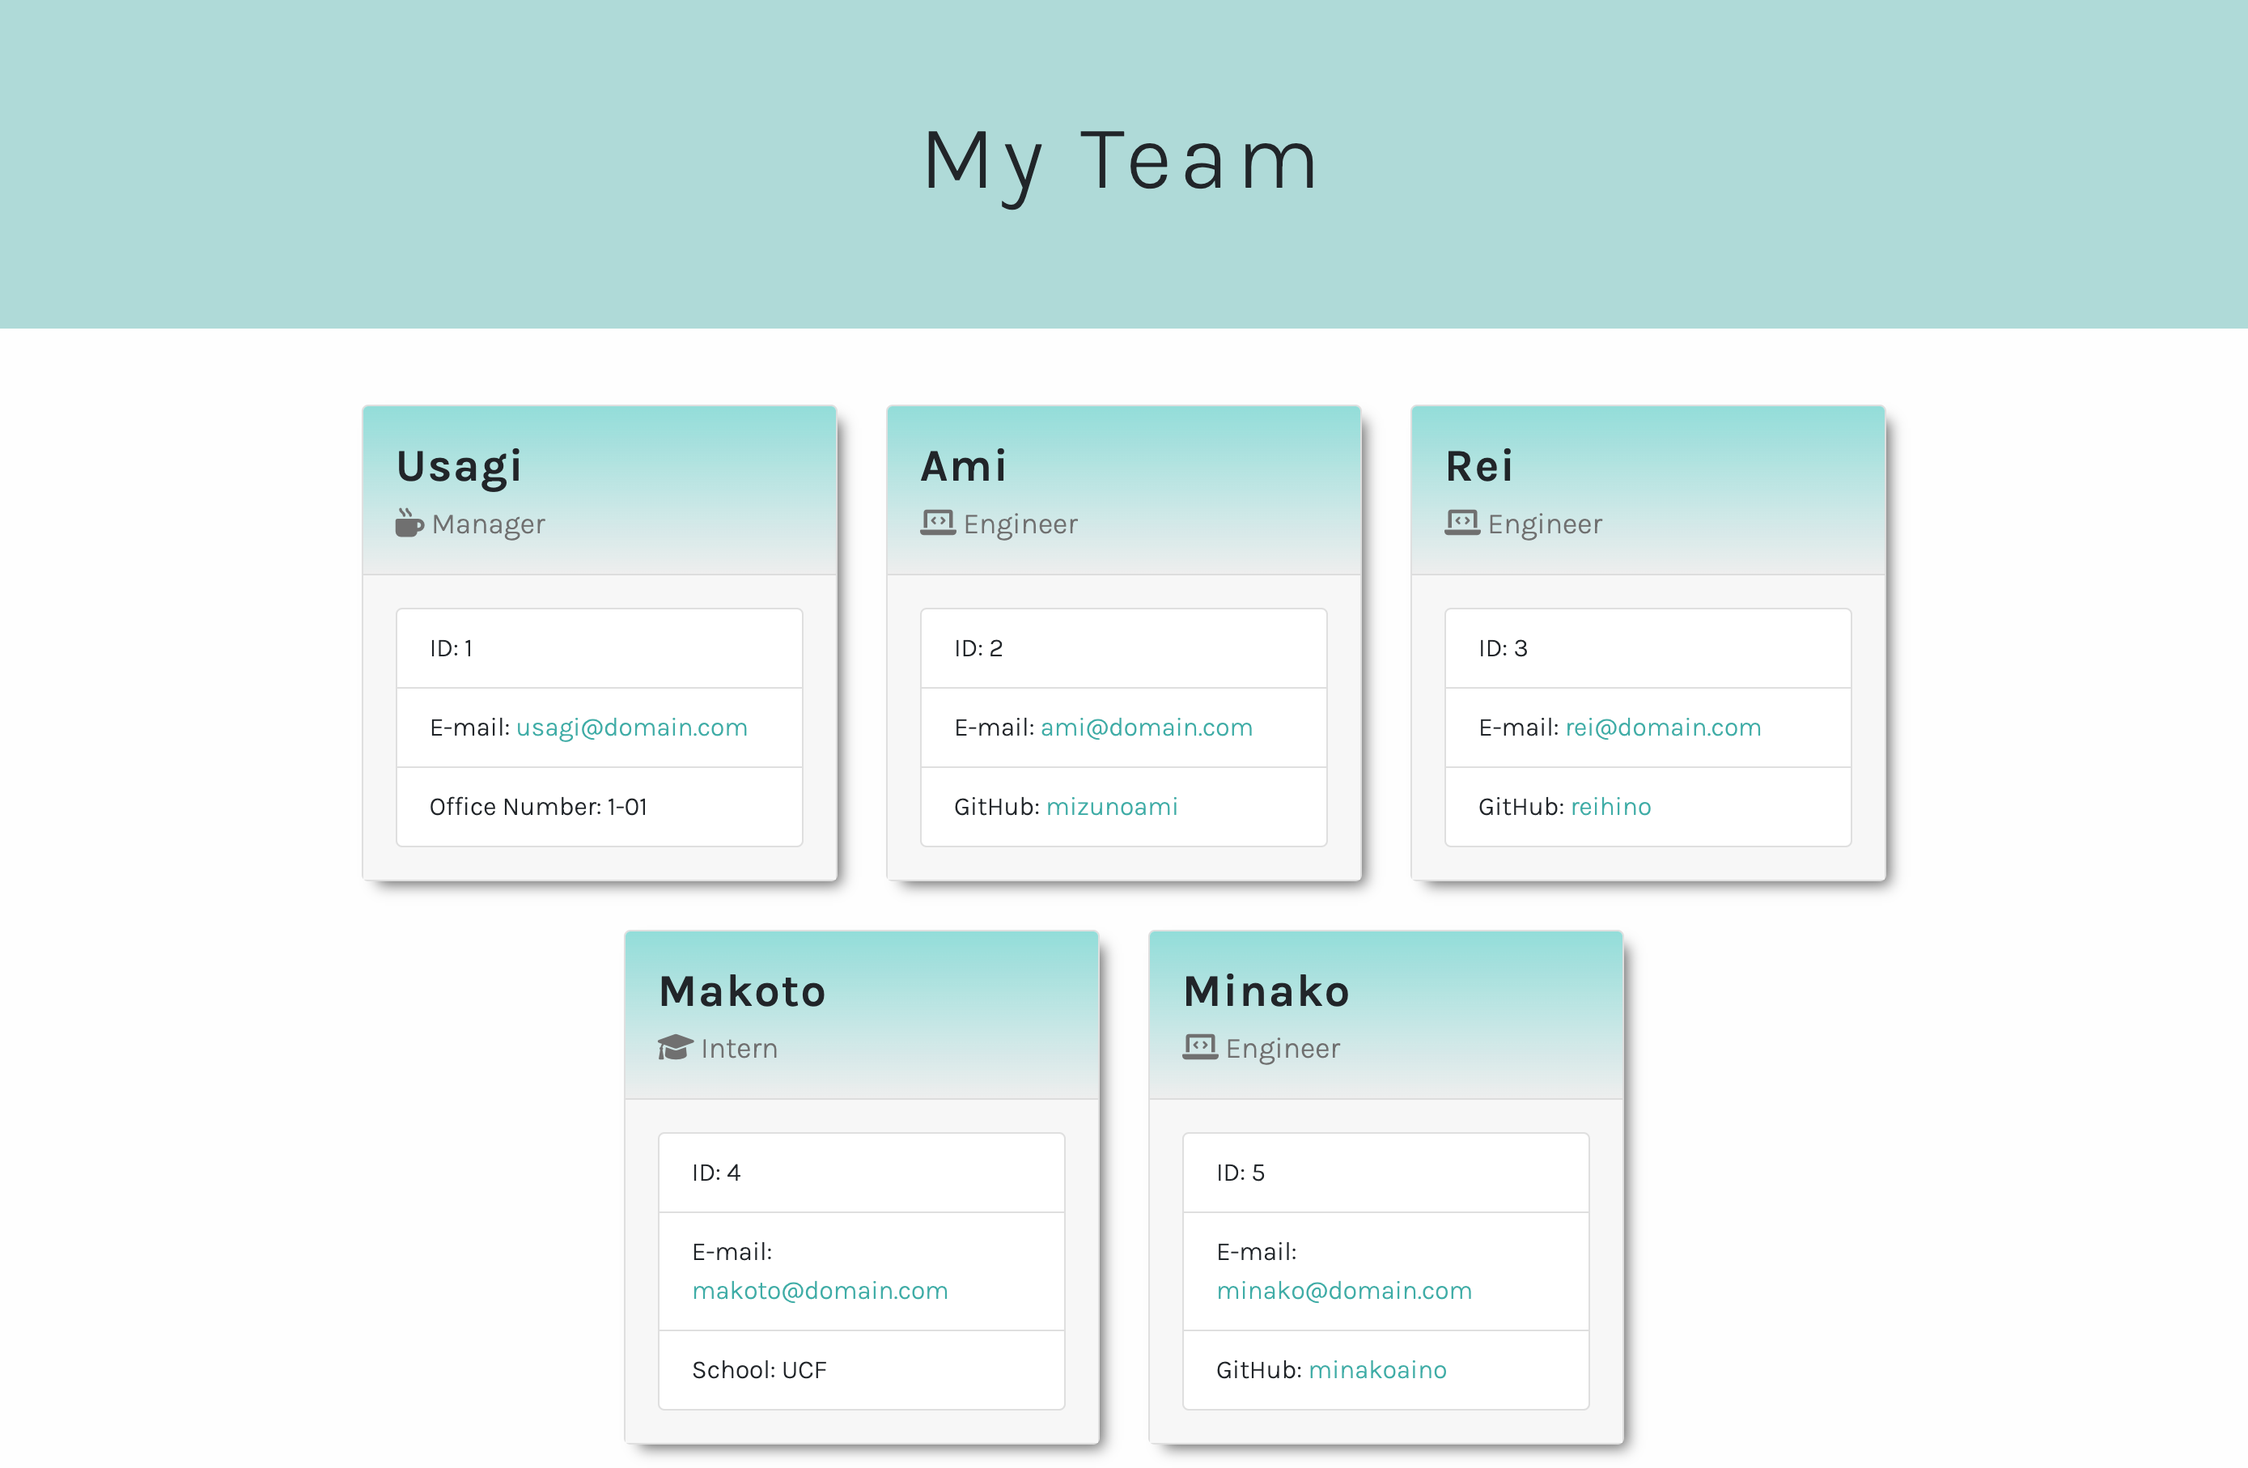
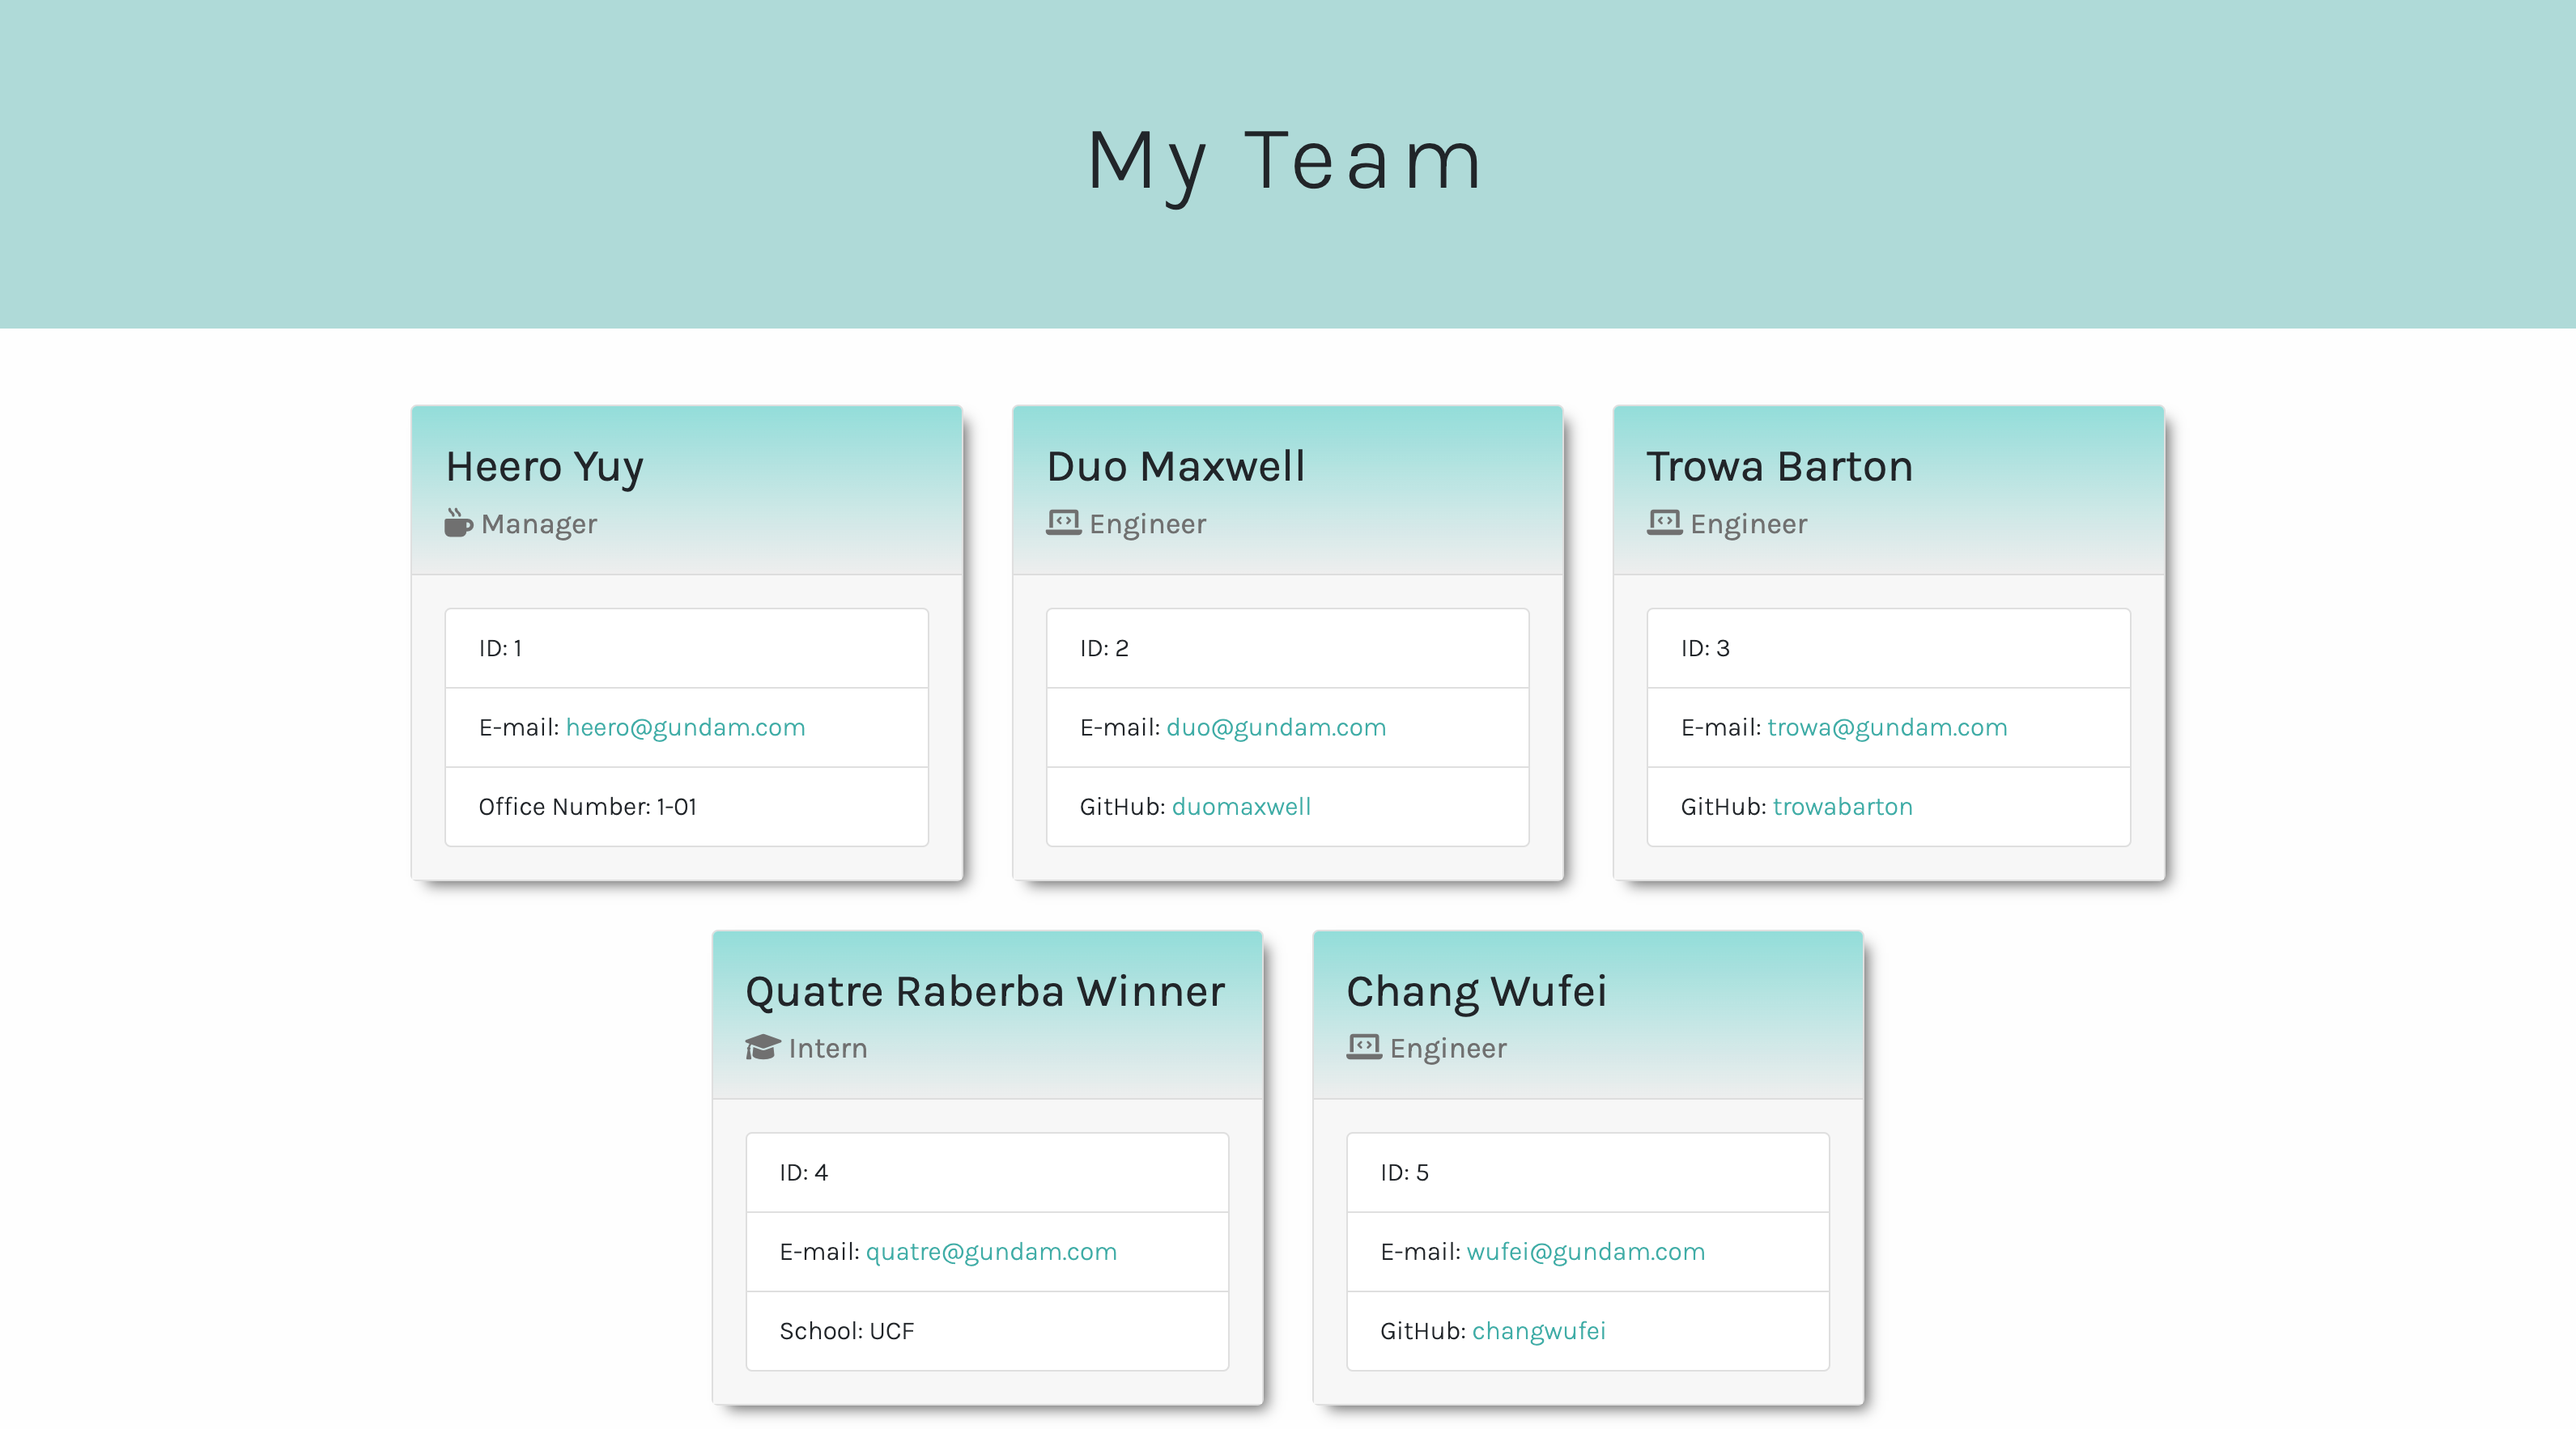
some edits to html output & README.md

diff --git a/dist/index.html b/dist/index.html
@@ -8,7 +8,7 @@
     <script src="https://kit.fontawesome.com/c5a64ca061.js" crossorigin="anonymous"></script>
     <link rel="preconnect" href="https://fonts.googleapis.com">
     <link rel="preconnect" href="https://fonts.gstatic.com" crossorigin>
-    <link href="https://fonts.googleapis.com/css2?family=Karla:wght@200;300;600&display=swap" rel="stylesheet">
+    <link href="https://fonts.googleapis.com/css2?family=Karla:wght@200;300;400&display=swap" rel="stylesheet">
     <link rel="stylesheet" href="style.css" />
     <title>Team Profile</title>
 </head>
@@ -28,13 +28,13 @@
             <div class="col-md-4">
                 <div class="card">
                     <div class="card-header">
-                        <h2>Usagi</h2>
+                        <h2>Heero Yuy</h2>
                         <h5 class="card-title"><i class="fa-solid fa-mug-hot"></i> Manager</h5>
                     </div>
                     <div class="card-body">
                         <ul class="list-group">
                             <li class="list-group-item">ID: 1</li>
-                            <li class="list-group-item">E-mail: <a href="mailto:usagi@domain.com">usagi@domain.com</a></li>
+                            <li class="list-group-item">E-mail: <a href="mailto:heero@gundam.com">heero@gundam.com</a></li>
                             <li class="list-group-item">Office Number: 1-01</li>
                         </ul>
                     </div>
@@ -44,14 +44,14 @@
             <div class="col-md-4">
                 <div class="card">
                     <div class="card-header">
-                        <h2>Ami</h2>
+                        <h2>Duo Maxwell</h2>
                         <h5 class="card-title"><i class="fa-solid fa-laptop-code"></i> Engineer</h5>
                     </div>
                     <div class="card-body">
                         <ul class="list-group">
                             <li class="list-group-item">ID: 2</li>
-                            <li class="list-group-item">E-mail: <a href="mailto:ami@domain.com">ami@domain.com</a></li>
-                            <li class="list-group-item">GitHub: <a href="https://github.com/mizunoami" target="_blank">mizunoami</a></li>
+                            <li class="list-group-item">E-mail: <a href="mailto:duo@gundam.com">duo@gundam.com</a></li>
+                            <li class="list-group-item">GitHub: <a href="https://github.com/duomaxwell" target="_blank">duomaxwell</a></li>
                         </ul>
                     </div>
                 </div>
@@ -60,14 +60,14 @@
             <div class="col-md-4">
                 <div class="card">
                     <div class="card-header">
-                        <h2>Rei</h2>
+                        <h2>Trowa Barton</h2>
                         <h5 class="card-title"><i class="fa-solid fa-laptop-code"></i> Engineer</h5>
                     </div>
                     <div class="card-body">
                         <ul class="list-group">
                             <li class="list-group-item">ID: 3</li>
-                            <li class="list-group-item">E-mail: <a href="mailto:rei@domain.com">rei@domain.com</a></li>
-                            <li class="list-group-item">GitHub: <a href="https://github.com/reihino" target="_blank">reihino</a></li>
+                            <li class="list-group-item">E-mail: <a href="mailto:trowa@gundam.com">trowa@gundam.com</a></li>
+                            <li class="list-group-item">GitHub: <a href="https://github.com/trowabarton" target="_blank">trowabarton</a></li>
                         </ul>
                     </div>
                 </div>
@@ -76,13 +76,13 @@
             <div class="col-md-4">
                 <div class="card">
                     <div class="card-header">
-                        <h2>Makoto</h2>
+                        <h2>Quatre Raberba Winner</h2>
                         <h5 class="card-title"><i class="fa-solid fa-graduation-cap"></i> Intern</h5>
                     </div>
                     <div class="card-body">
                         <ul class="list-group">
                             <li class="list-group-item">ID: 4</li>
-                            <li class="list-group-item">E-mail: <a href="mailto:makoto@domain.com">makoto@domain.com</a></li>
+                            <li class="list-group-item">E-mail: <a href="mailto:quatre@gundam.com">quatre@gundam.com</a></li>
                             <li class="list-group-item">School: UCF</li>
                         </ul>
                     </div>
@@ -92,14 +92,14 @@
             <div class="col-md-4">
                 <div class="card">
                     <div class="card-header">
-                        <h2>Minako</h2>
-                        <h5 class="card-title"><i class="fa-solid fa-laptop-code"></i> Engineer</h5>
+                        <h2>Chang Wufei</h2>
+                        <h5 class="card-title"><i class="fa-solid fa-graduation-cap"></i> Intern</h5>
                     </div>
                     <div class="card-body">
                         <ul class="list-group">
                             <li class="list-group-item">ID: 5</li>
-                            <li class="list-group-item">E-mail: <a href="mailto:minako@domain.com">minako@domain.com</a></li>
-                            <li class="list-group-item">GitHub: <a href="https://github.com/minakoaino" target="_blank">minakoaino</a></li>
+                            <li class="list-group-item">E-mail: <a href="mailto:wufei@gundam.com">wufei@gundam.com</a></li>
+                            <li class="list-group-item">School: UF</li>
                         </ul>
                     </div>
                 </div>

diff --git a/src/generatePage.js b/src/generatePage.js
@@ -112,7 +112,7 @@ const generatePage = data => {
     <script src="https://kit.fontawesome.com/c5a64ca061.js" crossorigin="anonymous"></script>
     <link rel="preconnect" href="https://fonts.googleapis.com">
     <link rel="preconnect" href="https://fonts.gstatic.com" crossorigin>
-    <link href="https://fonts.googleapis.com/css2?family=Karla:wght@200;300;600&display=swap" rel="stylesheet">
+    <link href="https://fonts.googleapis.com/css2?family=Karla:wght@200;300;400&display=swap" rel="stylesheet">
     <link rel="stylesheet" href="style.css" />
     <title>Team Profile</title>
 </head>
@@ -127,7 +127,7 @@ const generatePage = data => {
             </div>
         </div>
 
-        <div class="row justify-content-center">
+        <div class="row justify-content-center main">
 
             ${data}
 

diff --git a/dist/style.css b/dist/style.css
@@ -6,6 +6,7 @@ body {
     background-color: #fefefe;
     font-family: 'Karla', Helvetica, Arial, sans-serif;
     font-size: 1em;
+    font-weight: 300;
 }
 
 .container-fluid {
@@ -20,7 +21,7 @@ h1 {
     font-size: 36px;
     text-align: center;
     letter-spacing: 5px;
-    font-weight: 300;
+    font-weight: 400;
 }
 
 /* employee cards formatting */
@@ -48,8 +49,7 @@ div.card-header {
 
 .card-header h2 {
     font-size: 28px;
-    letter-spacing: 1px;
-    font-weight: 600;
+    font-weight: 400;
 }
 
 h5.card-title {

diff --git a/index.js b/index.js
@@ -72,7 +72,6 @@ Add a Team Manager
         // take manager info & push them into teamArray
         const manager = new Manager (managerData.name, managerData.id, managerData.email, managerData.officeNumber);
         teamArray.push(manager);
-        console.log(manager);
     })
 };
 

diff --git a/README.md b/README.md
@@ -19,7 +19,7 @@ To install this application, `git clone` this repository, or download the `.zip`
 
 Using the code editor of your choice, you need to install **Inquirer.js** node package by entering `npm inquirer` in the command line of terminal. Documentation for **Inquirer** can be accessed [here](https://www.npmjs.com/package/inquirer).
 
-In addition to **Inquirer.js**, you must install **Jest** node package in order to run tests. To install, enter `npm i jest` in the command line of terminal. For more information, please refer to their [documentation](https://jestjs.io/docs/getting-started).
+In addition to **Inquirer.js**, you must install **Jest** node package to run specific tests. To install, enter `npm i jest` in the command line of terminal. For more information, please refer to their [documentation](https://jestjs.io/docs/getting-started).
 
 ## Usage
 Ensure that you are in the root directory in order for this application to run successfully. This application will initialize by running this command line in terminal:
@@ -28,14 +28,16 @@ node index.js
 ```
 The **Inquirer** package for Node.js collects input regarding your team within the command line. Enter the employee's information as prompted, and it will organize that info & display it on an HTML page.
 
-The newly-generated **index.html** file will be found in the `dist` folder.
+The newly-generated `index.html` file will be found in the `dist` folder that goes hand-in-hand with the `style.css` file already present there.
 
+A video demonstration for this application can be found [here](https://www.youtube.com/watch?v=7b_bRehAL90).
+
+![demi.gif](/../main/assets/images/demo.gif)
 ![screenshot.png](/../main/assets/images/screenshot.png)
 
 ## Contributing
-Thank you for your interest in contributing to this application, however, I am not accepting contributions at this time.
+Thank you for your interest in contributing to this application, but I am not accepting contributions at this time.
 
-## Tests
 ## Tests
 Enter the following command in terminal to run tests for this application:
 ```
@@ -43,7 +45,7 @@ npm run test
 ```
 
 ## License
-This application is protected under the No License exclusive copyright by default. Please visit this [link](https://choosealicense.com/no-permission/) for more information.
+This application is protected under the No License exclusive copyright by default. Please visit this [link](https://choosealicense.com/no-permission/) for additional information.
 
 ## Questions
 For any questions about this repository, please contact me at [demi.h@me.com](mailto:demi.h@me.com).
